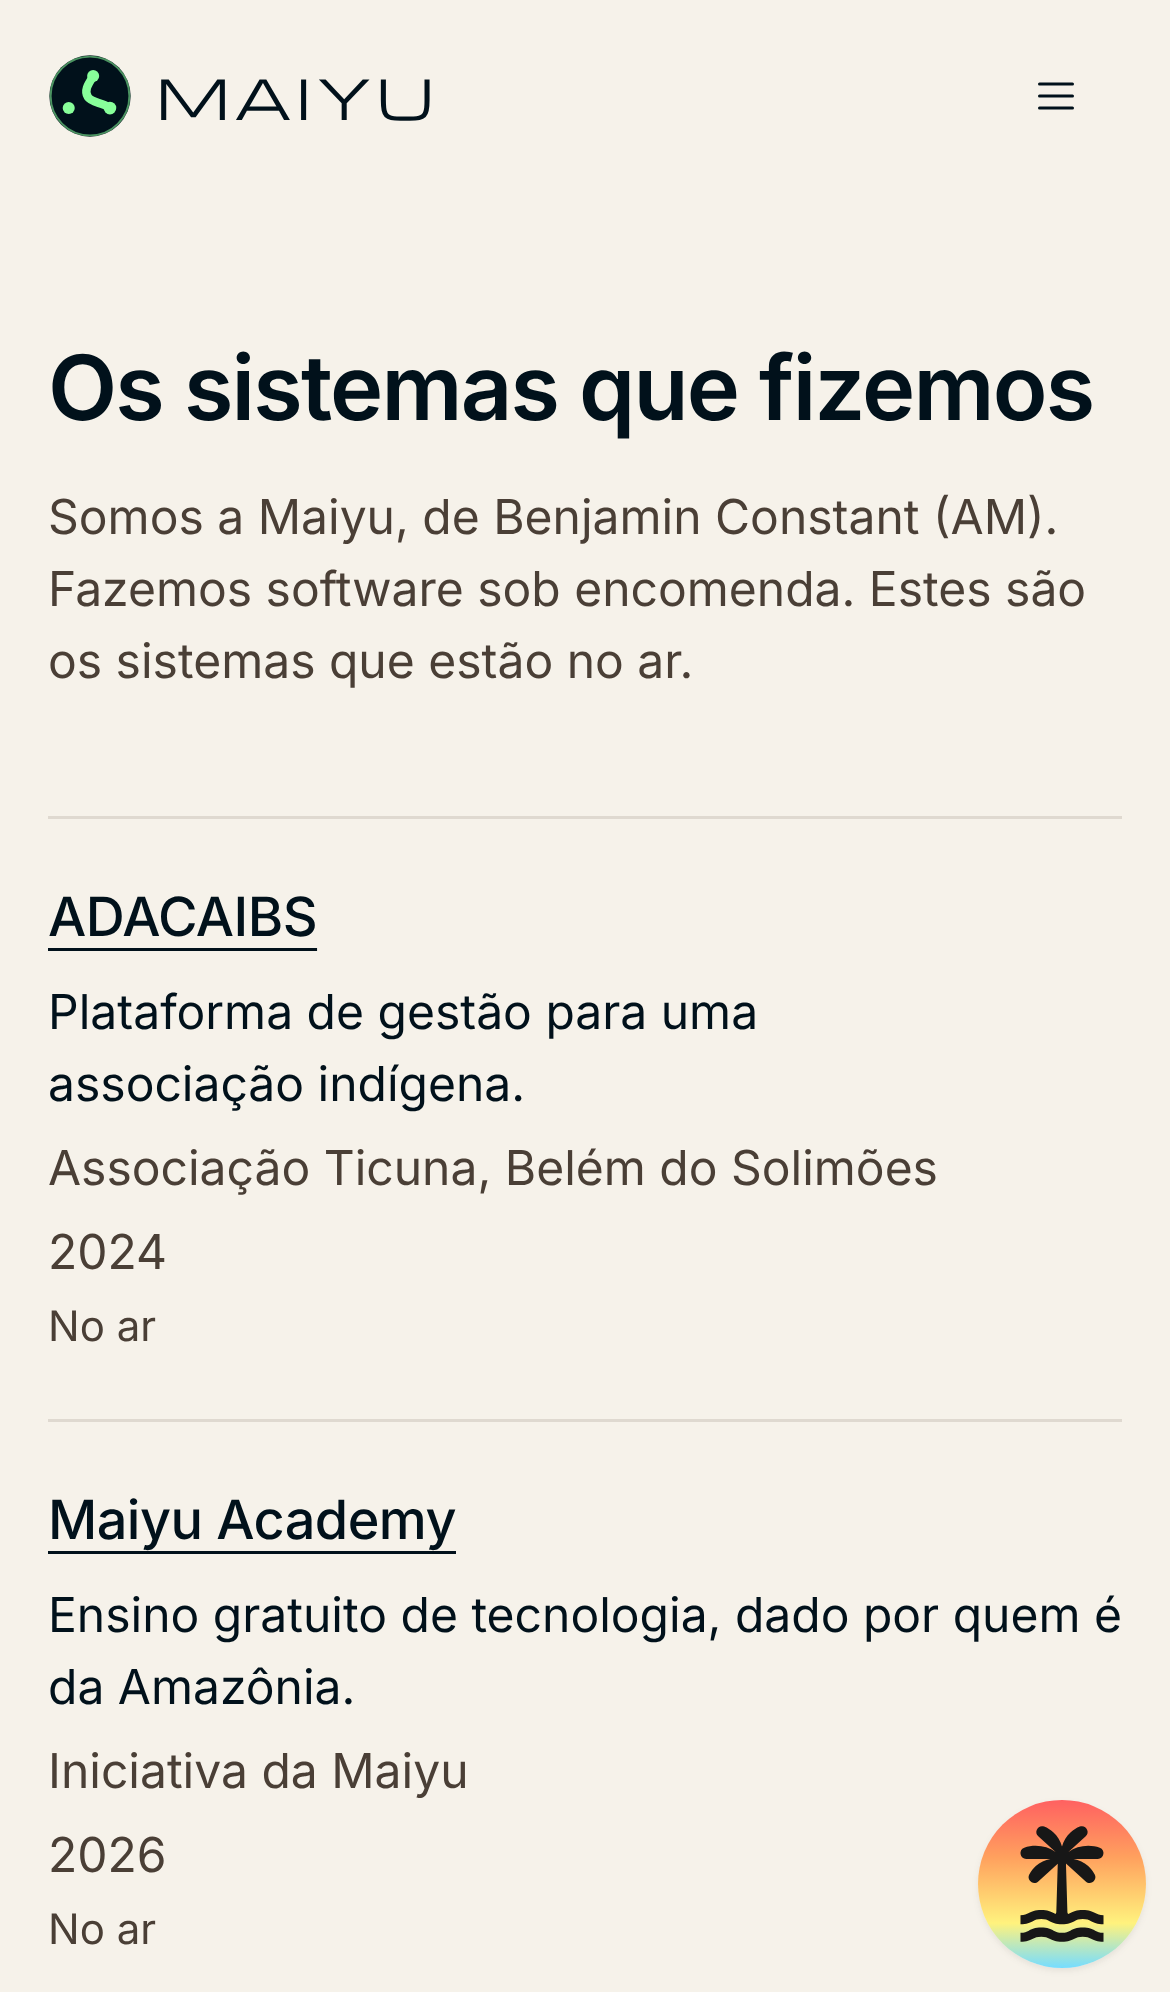
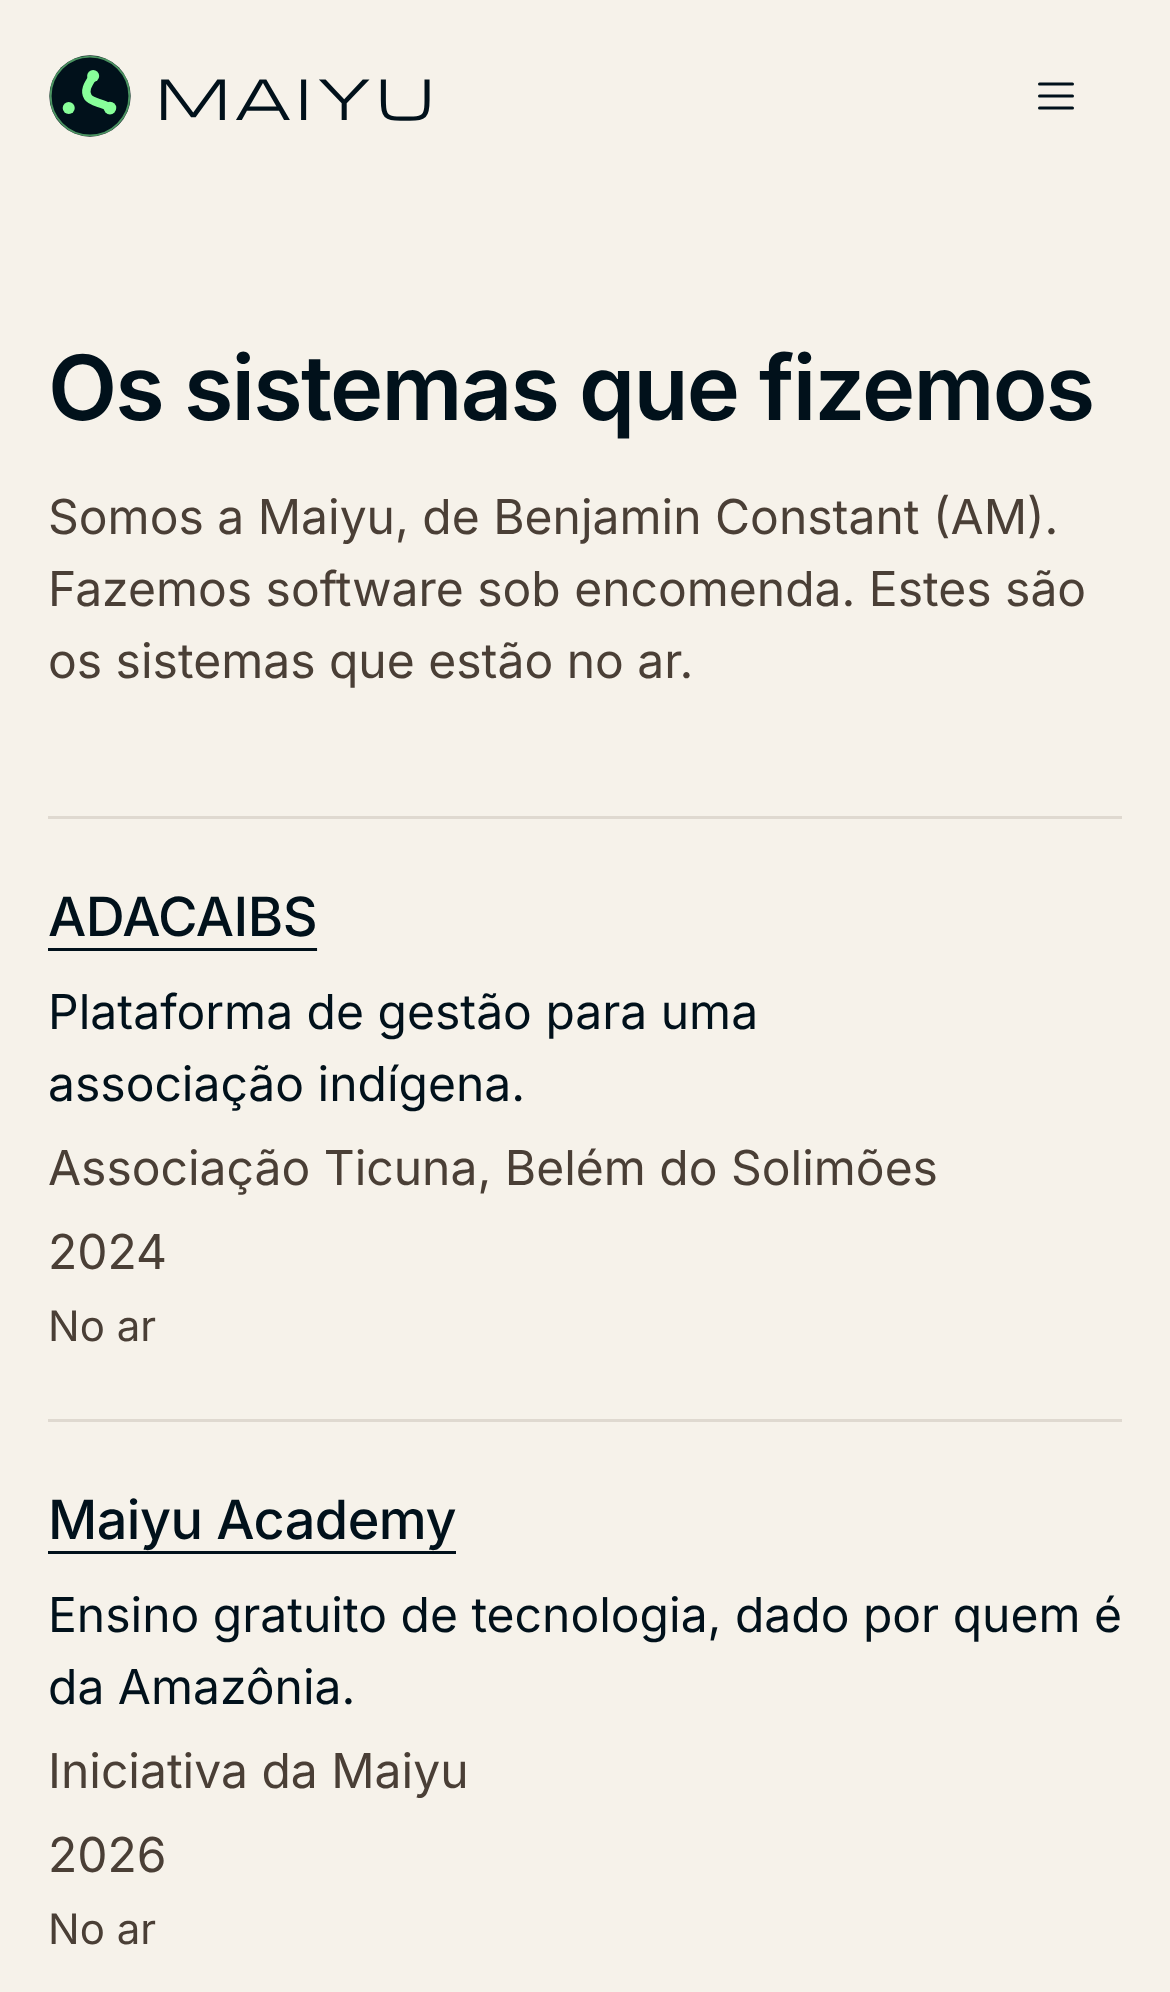
fix(design): botao de contato igual ao do cabecalho, prints limpos
O botao do fim da home usa buttonVariants() padrao com o icone do
WhatsApp, como o do cabecalho. Os prints saem sem a bolha do
devtools, que so existe em desenvolvimento.

Changed region(s): [[0.8308, 0.9026, 0.9846, 0.996]]

diff --git a/frontend/src/routes/_public/-components/home/home.tsx b/frontend/src/routes/_public/-components/home/home.tsx
@@ -1,6 +1,8 @@
+import { WhatsappLogoIcon } from '@phosphor-icons/react'
 import type * as React from 'react'
 
 import { buttonVariants } from '#/components/ui/button'
+import { cn } from '#/lib/cn'
 import { localized } from '#/lib/i18n'
 import { MISSING, pendingApps } from '#/lib/pending-apps'
 import { projects } from '#/lib/projects'
@@ -119,8 +121,9 @@ export function Home(): React.JSX.Element {
           href={CALL_URL}
           target="_blank"
           rel="noopener noreferrer"
-          className={buttonVariants({ variant: 'outline' }) + ' mt-6'}
+          className={cn(buttonVariants(), 'mt-6')}
         >
+          <WhatsappLogoIcon />
           {m.nav_get_in_touch()}
         </a>
       </section>
